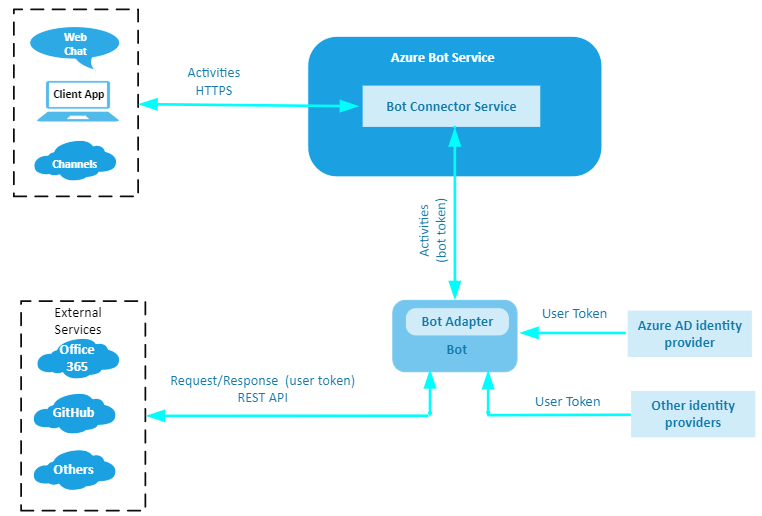
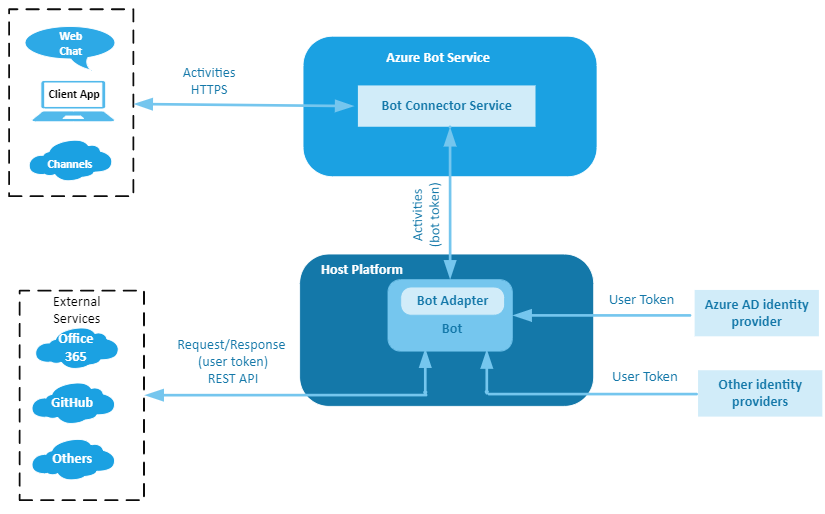
Fixed image and related content

diff --git a/BotFramework/Authentication/bot-oauth-cleanup.md b/BotFramework/Authentication/bot-oauth-cleanup.md
@@ -7,9 +7,11 @@ In the Bot Framework, two broad authentication categories exist: **bot authentic
 ![bot auth architecture](../../Media/Authentication/bot-auth-architecture-2.PNG)
 
 To help understanding the previous figure, notice the following:
-
- - **Channel connector services**. They are **web services** separate from the bot, running on different servers and hosted by Microsoft. They forward messages from third-party **channels** to the bot. When using channel connector services the bot receives Bot Framework activities. The Bot (Framework) adapter in this case does not translate the incoming messages into Bot Framework activities because the channel connector services already have done the translation. The Bot adapter just creates a turn context, and so forth. This is shown in the previous figure.
-- **Channel adapters**. They allow a bot to receive messages from third-party channels directly. The channel adapters do everything the Bot adapter does and also translate the incoming messages into Bot Framework activities.
+ - **Host platform**. A bot can be dployed in Azure or on any host platform chosen by the customer.
+ - **Bot connector service**. It represents **web services** separate from the bot, running on different servers and hosted by Microsoft. They forward messages from third-party **channels** to the bot. This is shown in the previous figure.
+- **Bot adapter**. There are two kinds of adapters:
+    - **Bot Framework adapter**. When using channel connector services the bot receives Bot Framework activities. The Bot Framework adapter in this case does not translate the incoming messages into Bot Framework activities because the channel connector services already have done the translation. The Bot adapter just creates a turn context, and so forth. This is shown in the previous figure.
+    - **Custom adapter**. A custom adapter allows a bot to receive messages from third-party channels directly. The channel adapter does everything the Bot Framework adapter does and also translates the incoming messages into Bot Framework activities.
 
 ## Bot authentication
 
